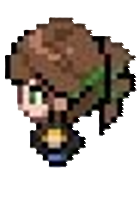
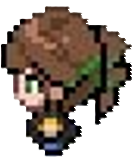
Changed size of characters f1 and f2

diff --git a/game.py b/game.py
@@ -74,7 +74,14 @@ class Player:
             pygame.image.load('images/player/p_right.png'),
             pygame.image.load('images/player/p_right_move1.png'),
             pygame.image.load('images/player/p_right_move2.png')]
-        
+        self.walk_back = [
+            pygame.image.load('images/player/p_back.png'),
+            pygame.image.load('images/player/p_back_move1.png'),
+            pygame.image.load('images/player/p_back_move2.png')]
+        self.walk_forward = [
+            pygame.image.load('images/player/player.png'),
+            pygame.image.load('images/player/p_move1.png'),
+            pygame.image.load('images/player/p_move2.png')]
         
 
         self.friend_icon = pygame.image.load(
@@ -202,5 +209,5 @@ while running:
         screen.blit(player.walk_right[0], (player.pos_x, player.pos_y))
 
     pygame.display.update()
-    clock.tick(15)
+    clock.tick(20)
 pygame.quit()
